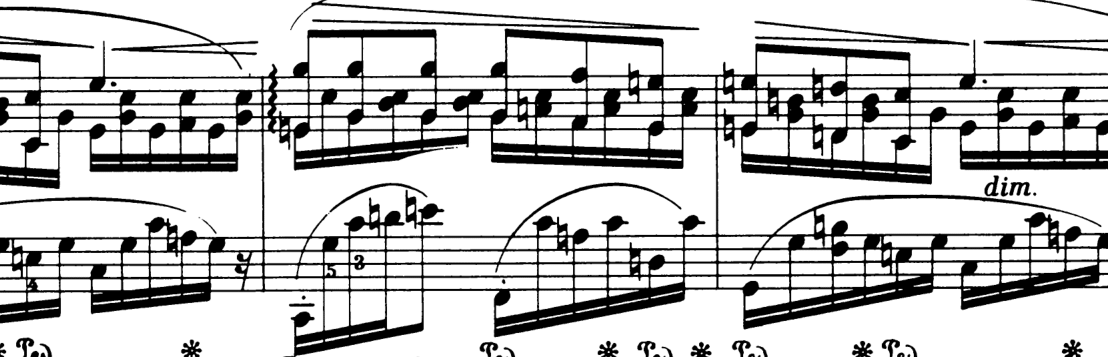
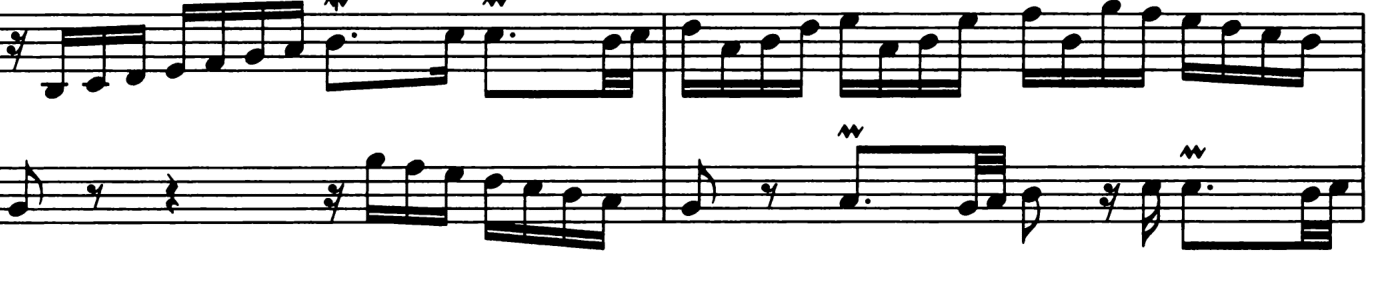
yes

diff --git a/funnyGPUshaderShit.py b/funnyGPUshaderShit.py
@@ -12,10 +12,12 @@ def remove_stave(data_range, image, x_thresh, y_thresh, recursions=2):
     # The most crap way of doing it
     # Is there a way of running this only on the bar line and maybe the 2 lines above and below
 
+    image_copy = image.copy()
+
     x1, y1 = data_range[0]
     x2, y2 = data_range[1]
 
-    cropped_image = image.crop((x1 - 4, y1 - 4, x2 + 4, y2 + 4))
+    cropped_image = image_copy.crop((x1 - 4, y1 - 4, x2 + 4, y2 + 4))
 
     cropped_image.save('input.png')
     mask_image_path = 'mask.png'
@@ -25,9 +27,9 @@ def remove_stave(data_range, image, x_thresh, y_thresh, recursions=2):
     width, height = output_image.size
     output_image = output_image.crop((4, 4, width - 4, height - 4))
 
-    image.paste(output_image, (x1, y1), output_image)
+    image_copy.paste(output_image, (x1, y1), output_image)
 
-    return image
+    return image_copy
 
 
 def apply_shader(input_image, mask_image_path, fragment_shader_path):

diff --git a/midi.py b/midi.py
@@ -93,7 +93,7 @@ class MidiEditor(tk.Frame):
         self.view_x_offset = 0
         self.view_y_offset = 30  # Lowest note
 
-        self.notes = parse_notes('bach1.midi')
+        self.notes = [] # parse_notes('bach1.midi')
         self.canvas_items = []
         self.canvas_notes = []
         self.init_canvas()
